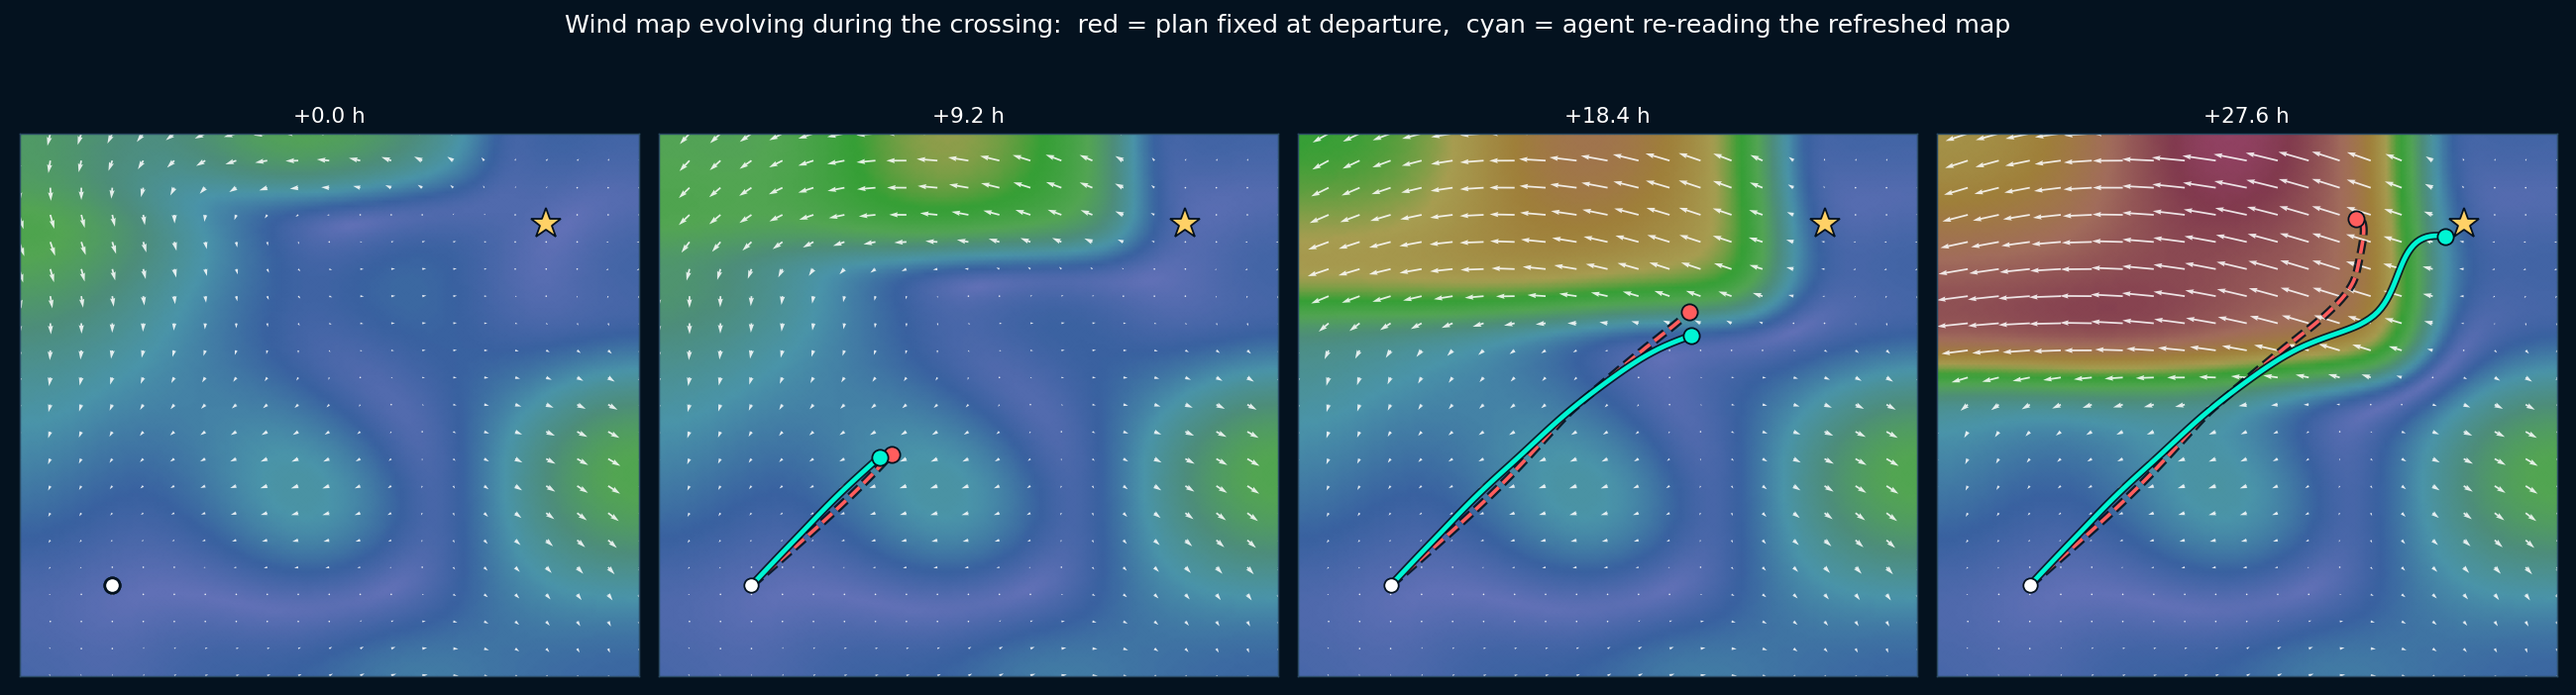
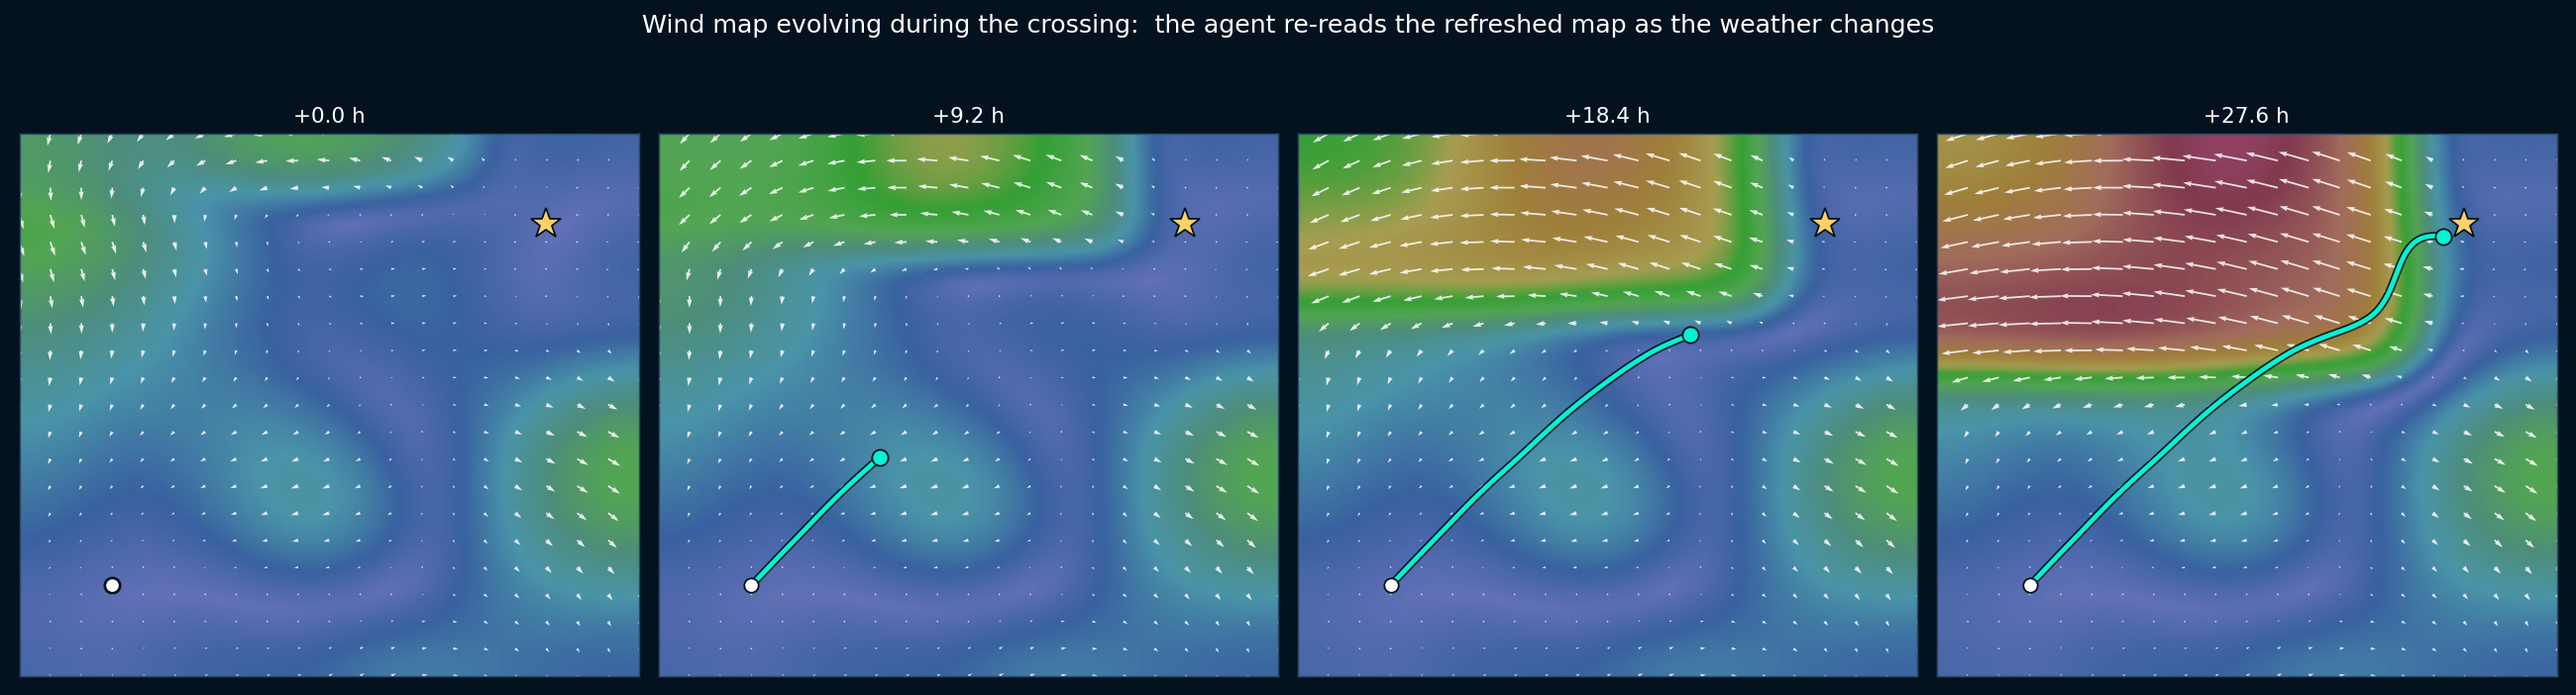
Windy-style wind particles in the receding-horizon and evolving demos
Animations draw a flowing particle carpet (viz.WindParticles) instead of a
quiver; still panels keep the arrows.

diff --git a/receding_horizon_demo.py b/receding_horizon_demo.py
@@ -38,7 +38,7 @@ from wind import WindField
 from dp_baseline import ValueIterationPlanner
 from benchmark_dp import load_model
 from wind_obs import wrap_wind_obs
-from viz import windy_cmap, windy_norm, wind_scale_ticks
+from viz import windy_cmap, windy_norm, wind_scale_ticks, WindParticles
 
 # Anchor all paths to this script's location
 SCRIPT_DIR = os.path.dirname(os.path.abspath(__file__))
@@ -306,14 +306,17 @@ def refresh_sweep(policy, start, goal, evolving, params, goal_radius, args, ref_
     print(f"saved {out}")
 
 
-def _draw_field(ax, field, quiver_step=2, ms_per_unit=1.0):
+def _draw_field(ax, field, quiver_step=2, ms_per_unit=1.0, animated=True):
     norm = windy_norm(ms_per_unit)
     im = ax.pcolormesh(field.x, field.y, field.speed.T, shading="gouraud",
                        cmap=windy_cmap(), norm=norm)
-    X, Y = np.meshgrid(field.x, field.y, indexing="ij")
-    s = quiver_step
-    q = ax.quiver(X[::s, ::s], Y[::s, ::s], field.wx[::s, ::s], field.wy[::s, ::s],
-                  color="white", scale=150, width=0.003, alpha=0.85)
+    if not animated:                          # a still frame: particles need motion, arrows do not
+        X, Y = np.meshgrid(field.x, field.y, indexing="ij")
+        s = quiver_step
+        q = ax.quiver(X[::s, ::s], Y[::s, ::s], field.wx[::s, ::s], field.wy[::s, ::s],
+                      color="white", scale=150, width=0.003, alpha=0.85)
+        return im, q
+    q = WindParticles(ax, field.extent)      # windy.com-style flow, same as the sailing demos
     return im, q
 
 
@@ -366,7 +369,7 @@ def make_animation(evolving, start, goal, goal_radius, frozen, adaptive, params,
         t_shown = float(at[min(i, len(at) - 1)]) if at is not None and len(at) else t_model
         field = evolving.at(t_shown)
         im.set_array(field.speed.T.ravel())
-        q.set_UVC(field.wx[::2, ::2], field.wy[::2, ::2])
+        q.step(field)
         out = []
         for res, line, dot, Jc in ((frozen, l_f, d_f, Jf), (adaptive, l_a, d_a, Ja)):
             j = min(i, len(res["traj"]) - 1)
@@ -398,7 +401,8 @@ def make_summary(evolving, start, goal, goal_radius, frozen, adaptive, as_intend
     for pi, (ax, i) in enumerate(zip(axes, picks)):
         t_model = i * p.dt
         field = evolving.at(t_model)
-        im, _ = _draw_field(ax, field, quiver_step=2, ms_per_unit=evolving.meta.get("ms_per_unit", 1.0))
+        im, _ = _draw_field(ax, field, quiver_step=2, ms_per_unit=evolving.meta.get("ms_per_unit", 1.0),
+                            animated=False)
         if pi == 0:  # what the departure plan expected to do, had the weather held
             ax.plot(as_intended["traj"][:, 0], as_intended["traj"][:, 1], color="white", lw=1.6,
                     ls=(0, (4, 3)), alpha=0.95, label="plan as intended (if weather held)")

diff --git a/viz.py b/viz.py
@@ -54,3 +54,50 @@ def wind_scale_ticks(ms_per_unit=1.0, max_ms=WINDY_MAX_MS, step=5.0):
     """Colorbar tick positions (in field units) and labels (in m/s)."""
     speeds = np.arange(0.0, max_ms + 1e-9, step)
     return speeds / max(ms_per_unit, 1e-9), [f"{s:.0f}" for s in speeds]
+
+
+class WindParticles:
+    """windy.com-style wind animation: a dense carpet of short, fine, faint strokes.
+
+    Windy draws thousands of *short* streaks rather than long comet tails: each stroke covers a
+    few frames of motion, is thin and semi-transparent, and particles are recycled constantly so
+    the pattern keeps flowing. Shared by every animation in this repo, so the audience sees the
+    same familiar picture each time.
+
+        parts = WindParticles(ax, extent)
+        parts.step(field)          # once per frame, with the wind field of that moment
+    """
+
+    def __init__(self, ax, extent, n=2600, tail=5, speed=0.30, lw=0.9, alpha=0.45, life=70,
+                 colour="white", seed=3, zorder=1):
+        from matplotlib.collections import LineCollection
+        self.extent = tuple(float(v) for v in extent)
+        self.n, self.tail, self.speed, self.life = int(n), int(tail), float(speed), int(life)
+        self.rng = np.random.default_rng(seed)
+        self.pts = self._spawn(self.n)
+        self.age = self.rng.integers(0, self.life, self.n)
+        self.hist = np.repeat(self.pts[None, :, :], self.tail, axis=0)     # (tail, n, 2)
+        self.col = LineCollection([], colors=colour, linewidths=lw, alpha=alpha, zorder=zorder,
+                                  capstyle="round")
+        ax.add_collection(self.col)
+
+    def _spawn(self, n):
+        x0, x1, y0, y1 = self.extent
+        return np.column_stack([self.rng.uniform(x0, x1, n), self.rng.uniform(y0, y1, n)])
+
+    def step(self, field, dt=1.0):
+        wx, wy = field(self.pts[:, 0], self.pts[:, 1])
+        self.pts = self.pts + np.column_stack([wx, wy]) * self.speed * dt * 0.01
+        self.age += 1
+        x0, x1, y0, y1 = self.extent
+        gone = ((self.pts[:, 0] < x0) | (self.pts[:, 0] > x1) | (self.pts[:, 1] < y0) |
+                (self.pts[:, 1] > y1) | (self.age > self.life))
+        if gone.any():
+            idx = np.nonzero(gone)[0]
+            self.pts[idx] = self._spawn(len(idx))
+            self.age[idx] = 0
+            self.hist[:, idx, :] = self.pts[idx]        # no streak across the respawn jump
+        self.hist = np.roll(self.hist, -1, axis=0)
+        self.hist[-1] = self.pts
+        self.col.set_segments(np.transpose(self.hist, (1, 0, 2)))
+        return self.col

diff --git a/evolving_scenario_demo.py b/evolving_scenario_demo.py
@@ -33,7 +33,7 @@ from benchmark_dp import load_model
 from wind_obs import wrap_wind_obs
 from receding_horizon_demo import EvolvingWind, simulate
 from scenarios import _grid, _background, _vortex, _jet
-from viz import windy_cmap, windy_norm, wind_scale_ticks
+from viz import windy_cmap, windy_norm, wind_scale_ticks, WindParticles
 
 SCRIPT_DIR = os.path.dirname(os.path.abspath(__file__))
 OUTPUT_DIR = os.path.join(SCRIPT_DIR, "output")
@@ -233,12 +233,15 @@ def main():
     panels(evolving, start, goal, run, plan, params, args)
 
 
-def _paint(ax, field, ms_per_unit, step=5):
+def _paint(ax, field, ms_per_unit, step=5, animated=True):
     im = ax.pcolormesh(field.x, field.y, field.speed.T, shading="gouraud",
                        cmap=windy_cmap(), norm=windy_norm(ms_per_unit))
-    X, Y = np.meshgrid(field.x, field.y, indexing="ij")
-    q = ax.quiver(X[::step, ::step], Y[::step, ::step], field.wx[::step, ::step],
-                  field.wy[::step, ::step], color="white", scale=170, width=0.0028, alpha=0.85)
+    if not animated:                          # a still frame: particles need motion, arrows do not
+        X, Y = np.meshgrid(field.x, field.y, indexing="ij")
+        q = ax.quiver(X[::step, ::step], Y[::step, ::step], field.wx[::step, ::step],
+                      field.wy[::step, ::step], color="white", scale=170, width=0.0028, alpha=0.85)
+        return im, q
+    q = WindParticles(ax, field.extent)      # windy.com-style flow, same as the sailing demos
     return im, q
 
 
@@ -291,7 +294,7 @@ def animate(evolving, start, goal, goal_radius, run, plan, params, args):
         t_shown = float(at[min(i, len(at) - 1)])   # the map the agent is holding
         field = evolving.at(t_shown)
         im.set_array(field.speed.T.ravel())
-        q.set_UVC(field.wx[::5, ::5], field.wy[::5, ::5])
+        q.step(field)
         pairs = [(run, l_run, d_run)] + ([(plan, l_plan, d_plan)] if show_plan else [])
         for res, line, dot in pairs:
             j = min(i, len(res["traj"]) - 1)
@@ -315,7 +318,7 @@ def panels(evolving, start, goal, run, plan, params, args):
     fig, axes = plt.subplots(1, 4, figsize=(20, 5.4), facecolor="#04121f")
     for ax, i in zip(axes, picks):
         t_model = i * params.dt
-        im, _ = _paint(ax, evolving.at(t_model), args.ms_per_unit, step=6)
+        im, _ = _paint(ax, evolving.at(t_model), args.ms_per_unit, step=6, animated=False)
         ax.set_facecolor("#04121f")
         for res, c, ls, lw in pairs:
             j = min(i, len(res["traj"]) - 1)
